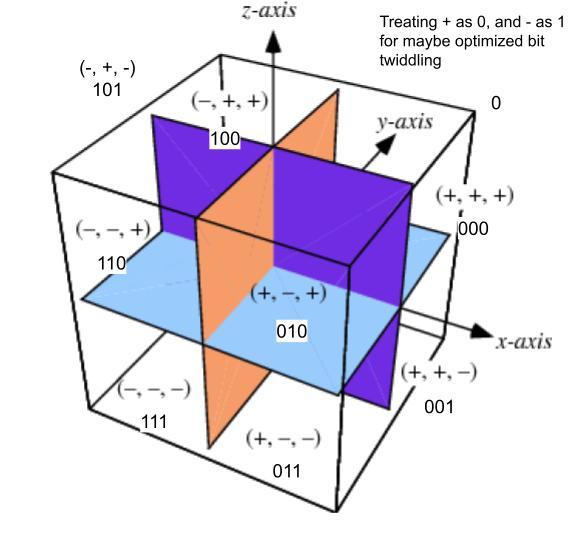
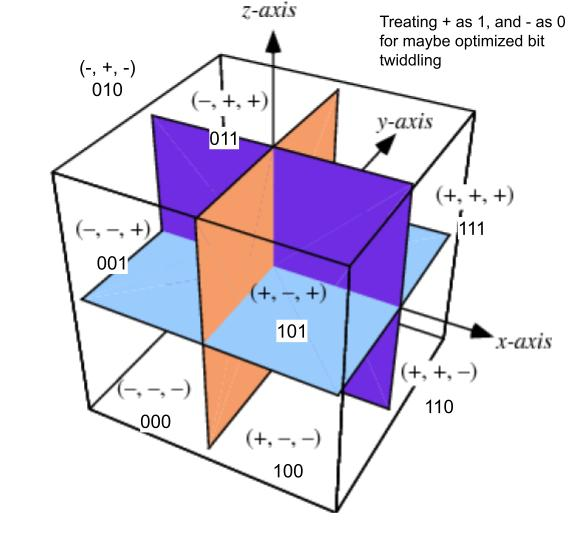
Updated unit cube reference
Replaced original octant coding with standard Morton coding for Z-order integration

diff --git a/inc/octree.hpp b/inc/octree.hpp
@@ -118,20 +118,18 @@ private:
 
     /**
      * @brief given some space and a given point, determins which octant within that space it should lie in
+     * by dividing space evenly along all 3 axis, i.e is it left or right? (first bit), is it forwards or back? (second bit)
+     * is it up or down? 3rd bit, to create a code mapping. This corresponds to a 3d Z-Order curve or a Morton Code
      * @note octant selection is determined purely based on the center point of the space, no bounds checking occurs
      * @note refer in the docs for the reference unit cube to work out the bit twiddling that makes this work
+     * @note https://en.wikipedia.org/wiki/Z-order_curve for coding convention orders
      */
-    constexpr size_t get_space_octant(const Vec3D& point, const Internal& space) noexcept {
-        //See if it is left or right (x direction)
-        size_t is_to_right = (point.x >= space.center_point.x) ? 0 : 1;
-
-        //Given some point, determine if it is behind or in front of the point (y direction)
-        size_t is_in_front = (point.y >= space.center_point.y) ? 0 : 1;
-
-        //See if it is up or down (z direction)
-        size_t is_up = (point.z >= space.center_point.z) ? 0 : 1;
-
-        return static_cast<size_t>((is_to_right) | (is_in_front << 1) | (is_up << 2))
+    constexpr uint8_t get_space_octant(const Vec3D& point, const Internal& space) noexcept {
+        return static_cast<uint8_t>(
+            (point.x >= space.center_point.x) | 
+            ((point.y >= space.center_point.y) << 1) | 
+            ((point.z >= space.center_point.z) << 2)
+        );
     }
     
 };
